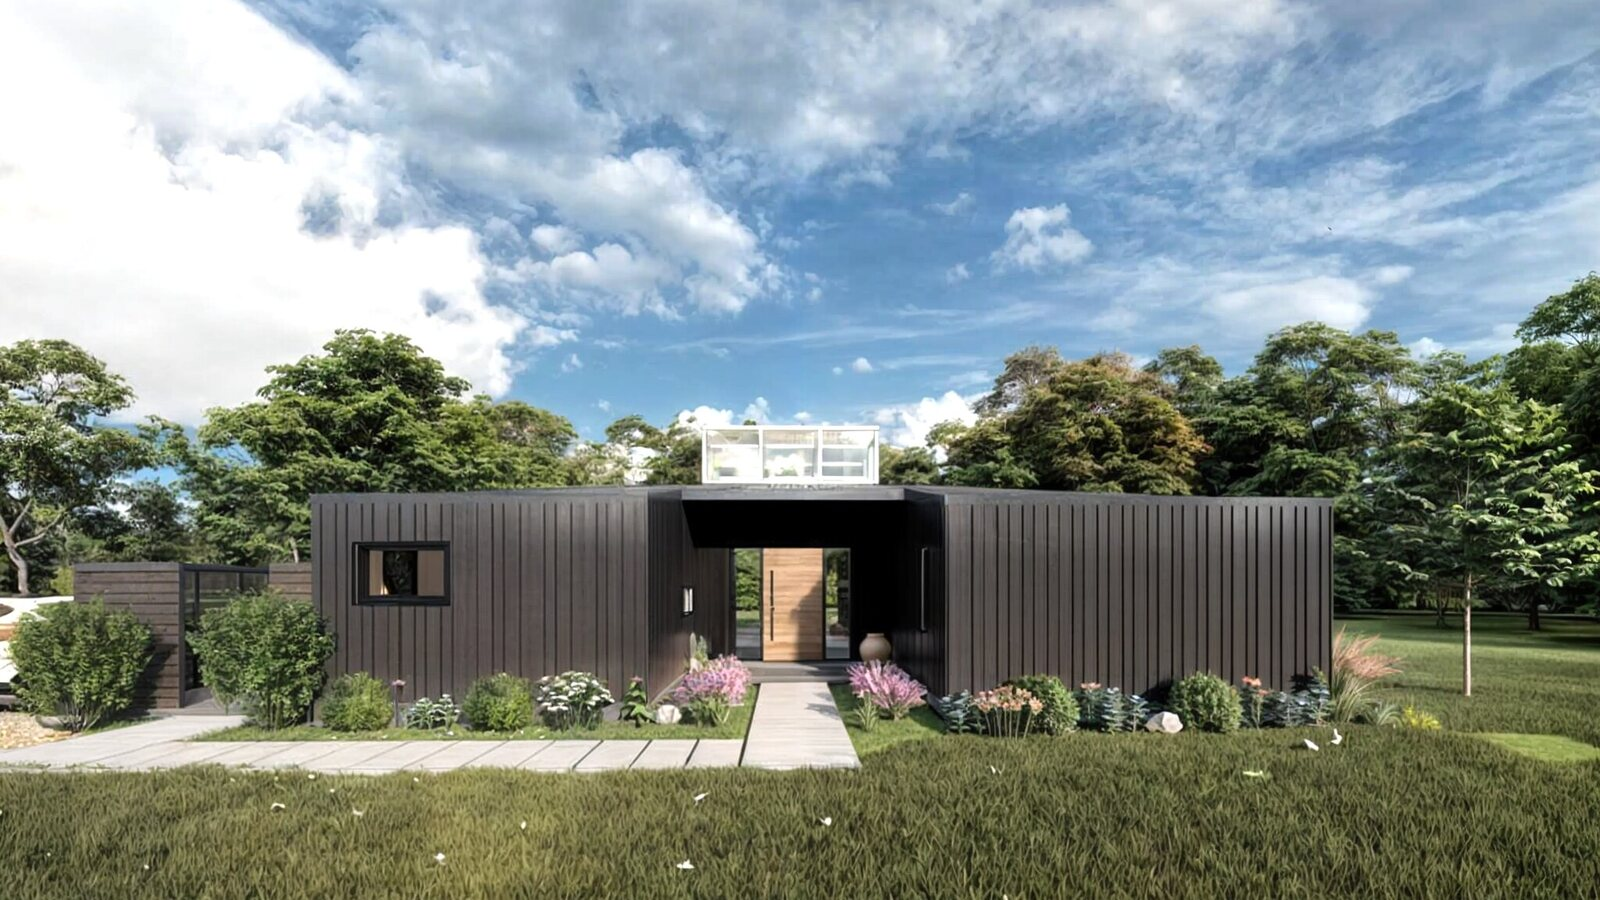
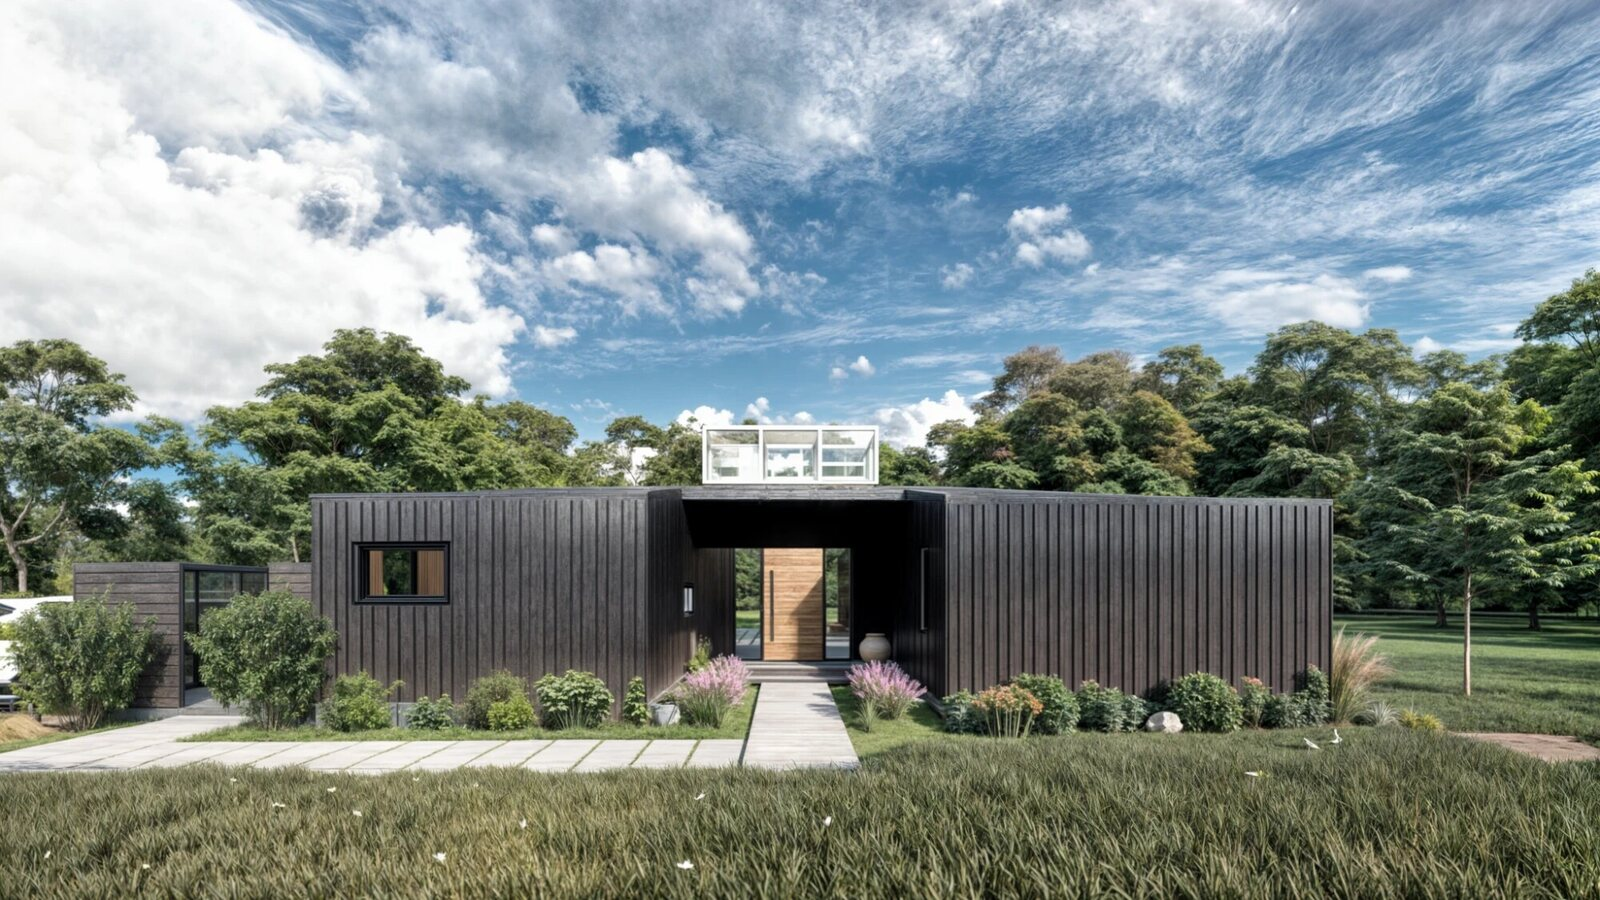
Vivienda AC: nueva imagen principal (2000 px)
Claude-Session: https://claude.ai/code/session_01FmVd69kGBz5KSZfse9UPmy

diff --git a/index.html b/index.html
@@ -12,7 +12,7 @@
 <link rel="preconnect" href="https://fonts.googleapis.com">
 <link rel="preconnect" href="https://fonts.gstatic.com" crossorigin>
 <link href="https://fonts.googleapis.com/css2?family=Jost:wght@200;300;400&display=swap" rel="stylesheet">
-<link rel="stylesheet" href="css/style.css?v=6">
+<link rel="stylesheet" href="css/style.css?v=7">
 </head>
 <body>
 
@@ -42,7 +42,7 @@
   <div class="lb-count"></div>
 </div>
 
-<script src="js/data.js?v=6"></script>
-<script src="js/main.js?v=6"></script>
+<script src="js/data.js?v=7"></script>
+<script src="js/main.js?v=7"></script>
 </body>
 </html>

diff --git a/js/data.js b/js/data.js
@@ -1,5 +1,5 @@
 // Versión del contenido: súbela (ej. "2") cada vez que reemplaces imágenes con el mismo nombre, para que los navegadores no muestren copias antiguas.
-window.SITE_VERSION = "6";
+window.SITE_VERSION = "7";
 // Contenido del portafolio. Para agregar un proyecto, copia un bloque y sube sus imágenes a /img/<slug>/.
 // "wide": imágenes (1, 2, ...) que ocupan todo el ancho en la galería. "n" es la cantidad de imágenes (01.jpg, 02.jpg, ...). Las descripciones son opcionales.
 window.PROJECTS = [
